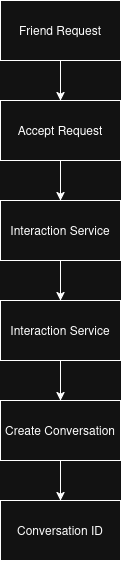
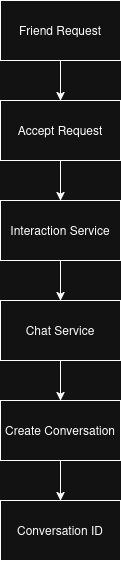
fixes in conversation.md

Changed region(s): [[0.0744, 0.5758, 0.9174, 0.6061]]

diff --git a/docs/chat-architecture.md b/docs/chat-architecture.md
@@ -107,7 +107,7 @@ This ensures users always have a valid conversation before message exchange begi
 
 When a user opens the chat interface:
 
-1. Client requests a conversation identifier.
+1. Client requests a conversation identifier using the recipient user ID.
 2. Chat Service locates the conversation using both participant IDs.
 3. Conversation ID is returned.
 4. Client loads historical messages using the conversation ID.
@@ -115,11 +115,13 @@ When a user opens the chat interface:
 
 The conversation ID acts as the primary identifier for all chat operations.
 
+The frontend never sends messages directly using recipient identifiers. Instead, messages are associated with a conversation identifier generated during conversation creation. This allows message persistence, retrieval, and pagination to be performed efficiently using a single conversation key.
+
 ---
 
 ## Message Model
 
-Messages are stored independently from conversations.
+Messages are stored independently from conversations and reference conversations through the conversationId field.
 
 Example:
 
@@ -152,7 +154,7 @@ Messages belong to conversations and are retrieved through conversation-based qu
 When a user sends a message:
 
 1. Client publishes a STOMP message.
-2. Chat Service validates the conversation.
+2. Chat Service receives the message request.
 3. Message is persisted in MongoDB.
 4. Message event is published to Redis.
 5. Redis distributes the event across subscribed instances.
@@ -168,6 +170,8 @@ This workflow ensures message delivery regardless of which chat service instance
 ![Media Message Workflow](images/chat-media-flow.png)
 
 Media messages follow a different workflow than text messages.
+
+Media files are not transferred through WebSocket connections. Only the resulting Cloudflare R2 URL is transmitted through STOMP after successful upload.
 
 Workflow:
 
@@ -256,6 +260,7 @@ Limitations:
 * No distributed presence tracking
 * Message ordering relies on persistence timestamps
 * Limited advanced messaging features
+* Conversations currently support only two participants
 
 ---
 